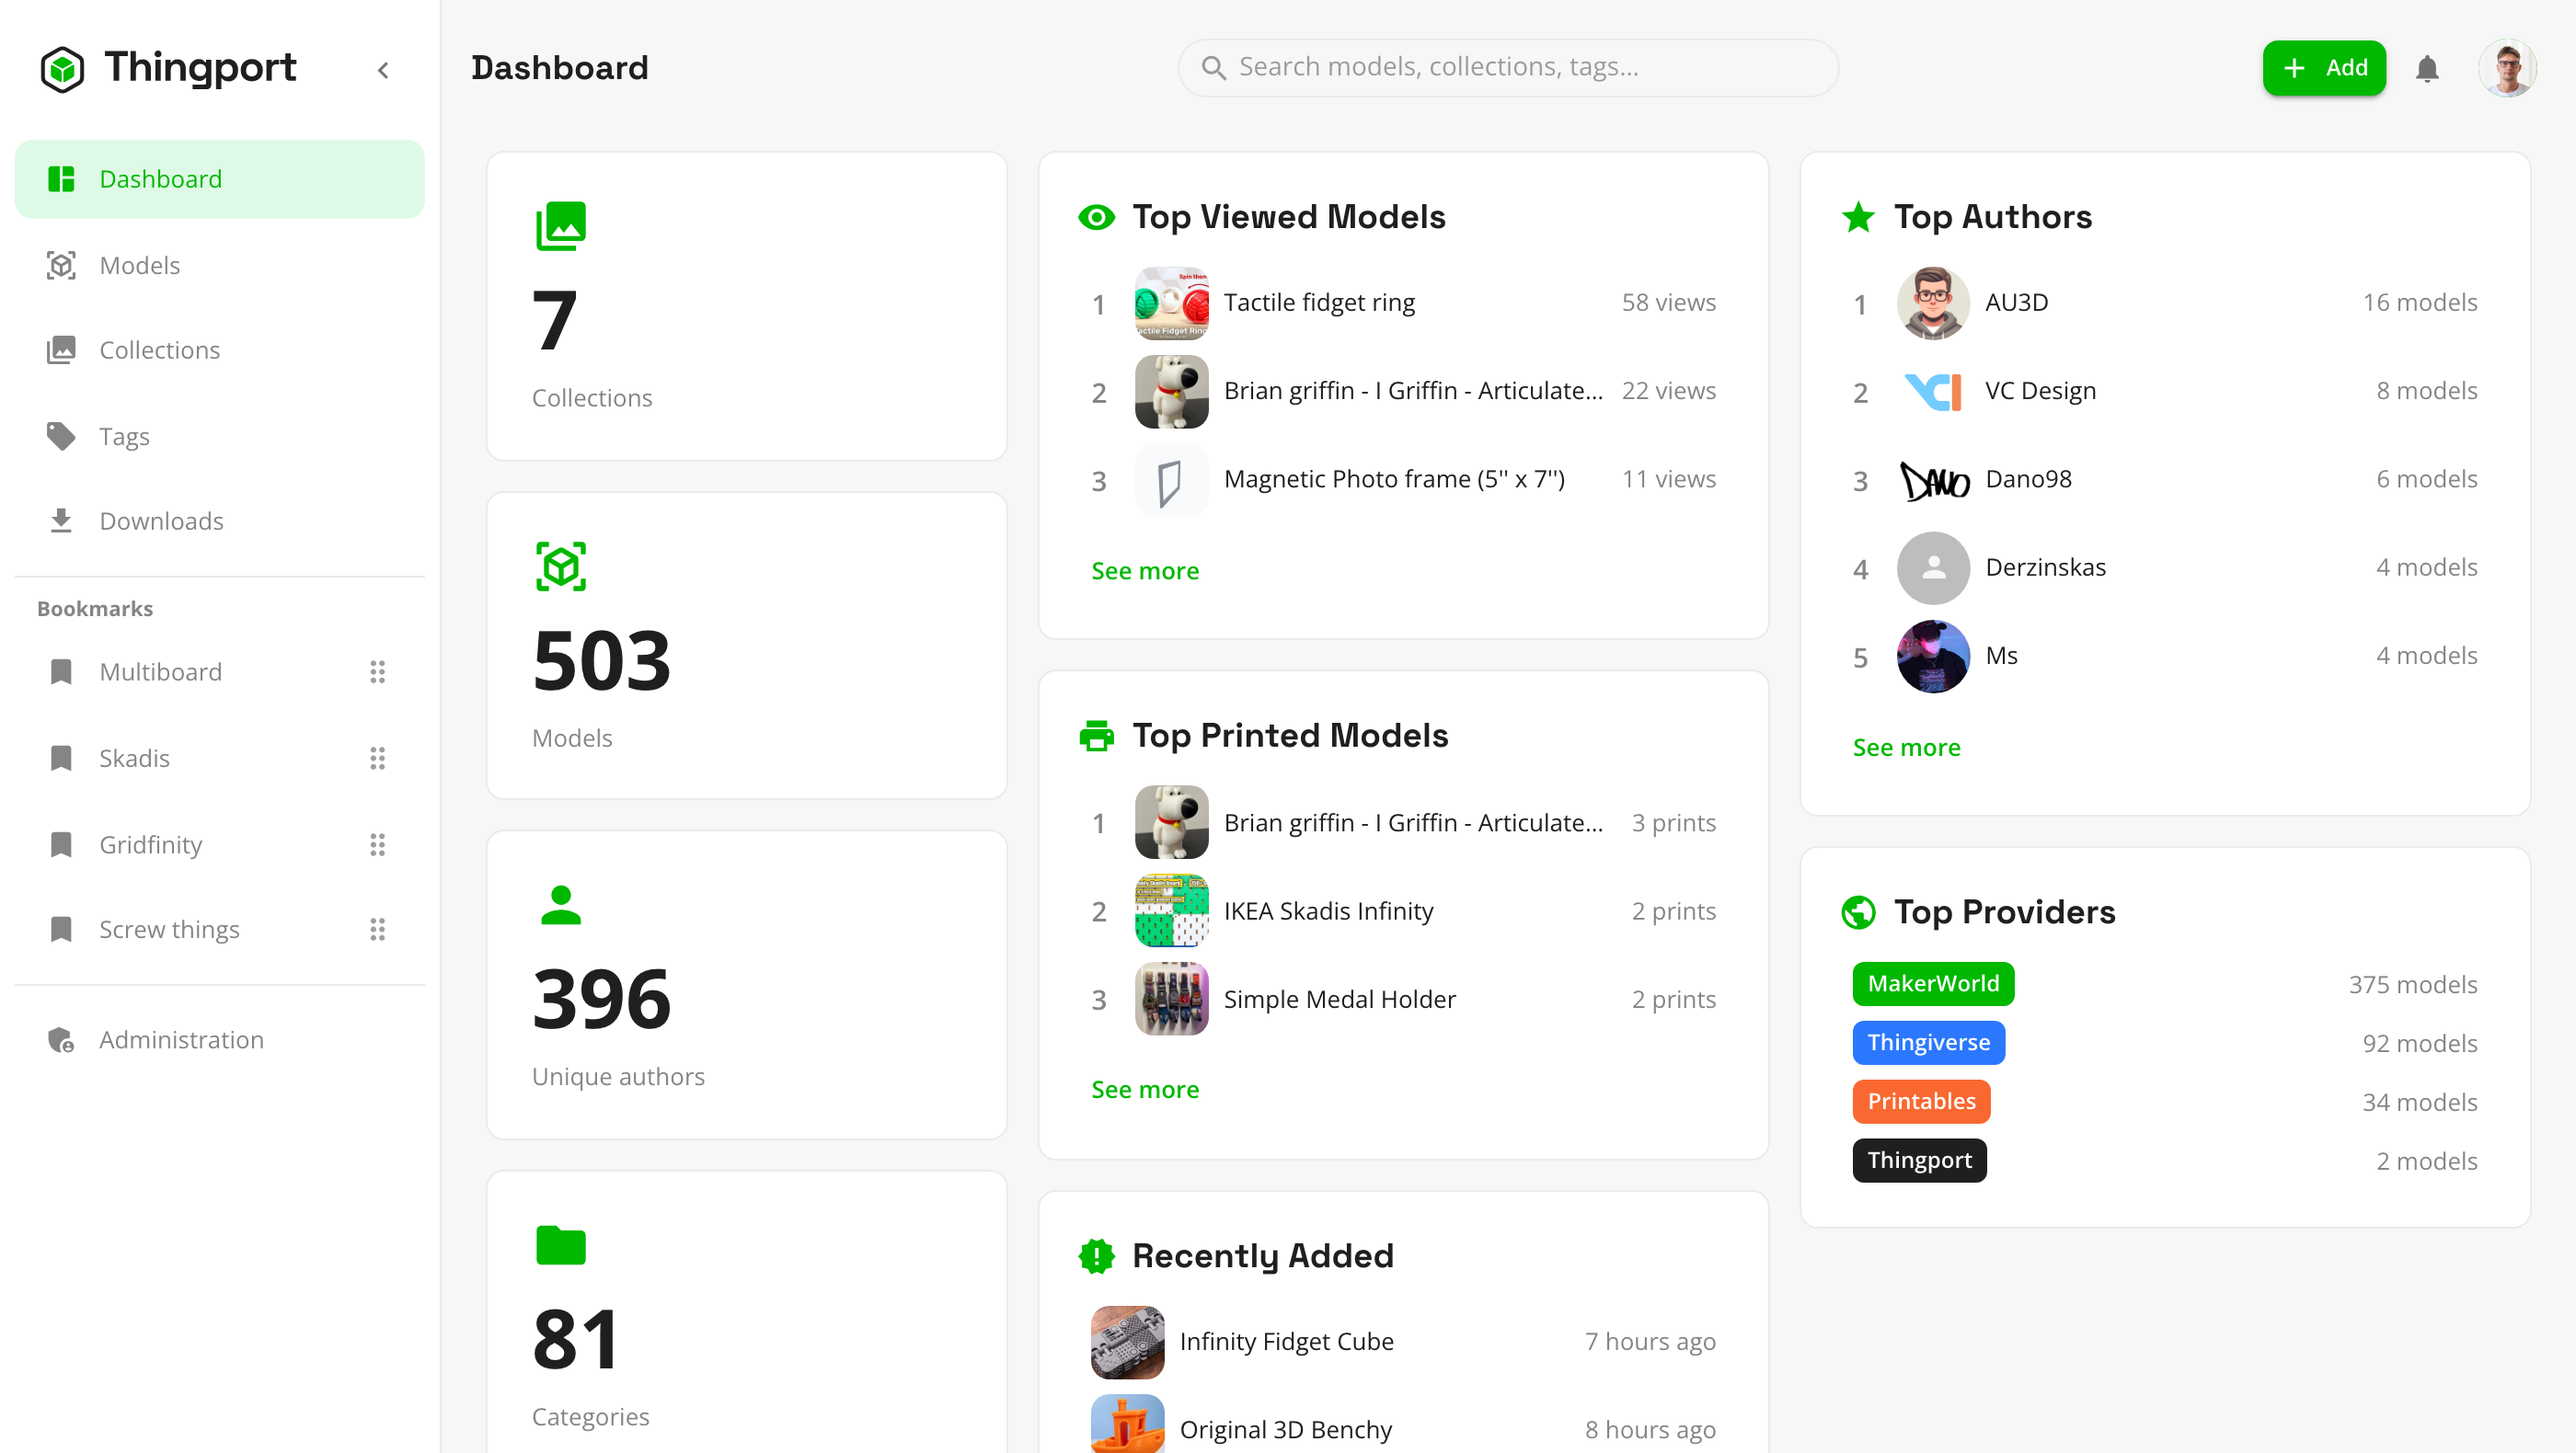
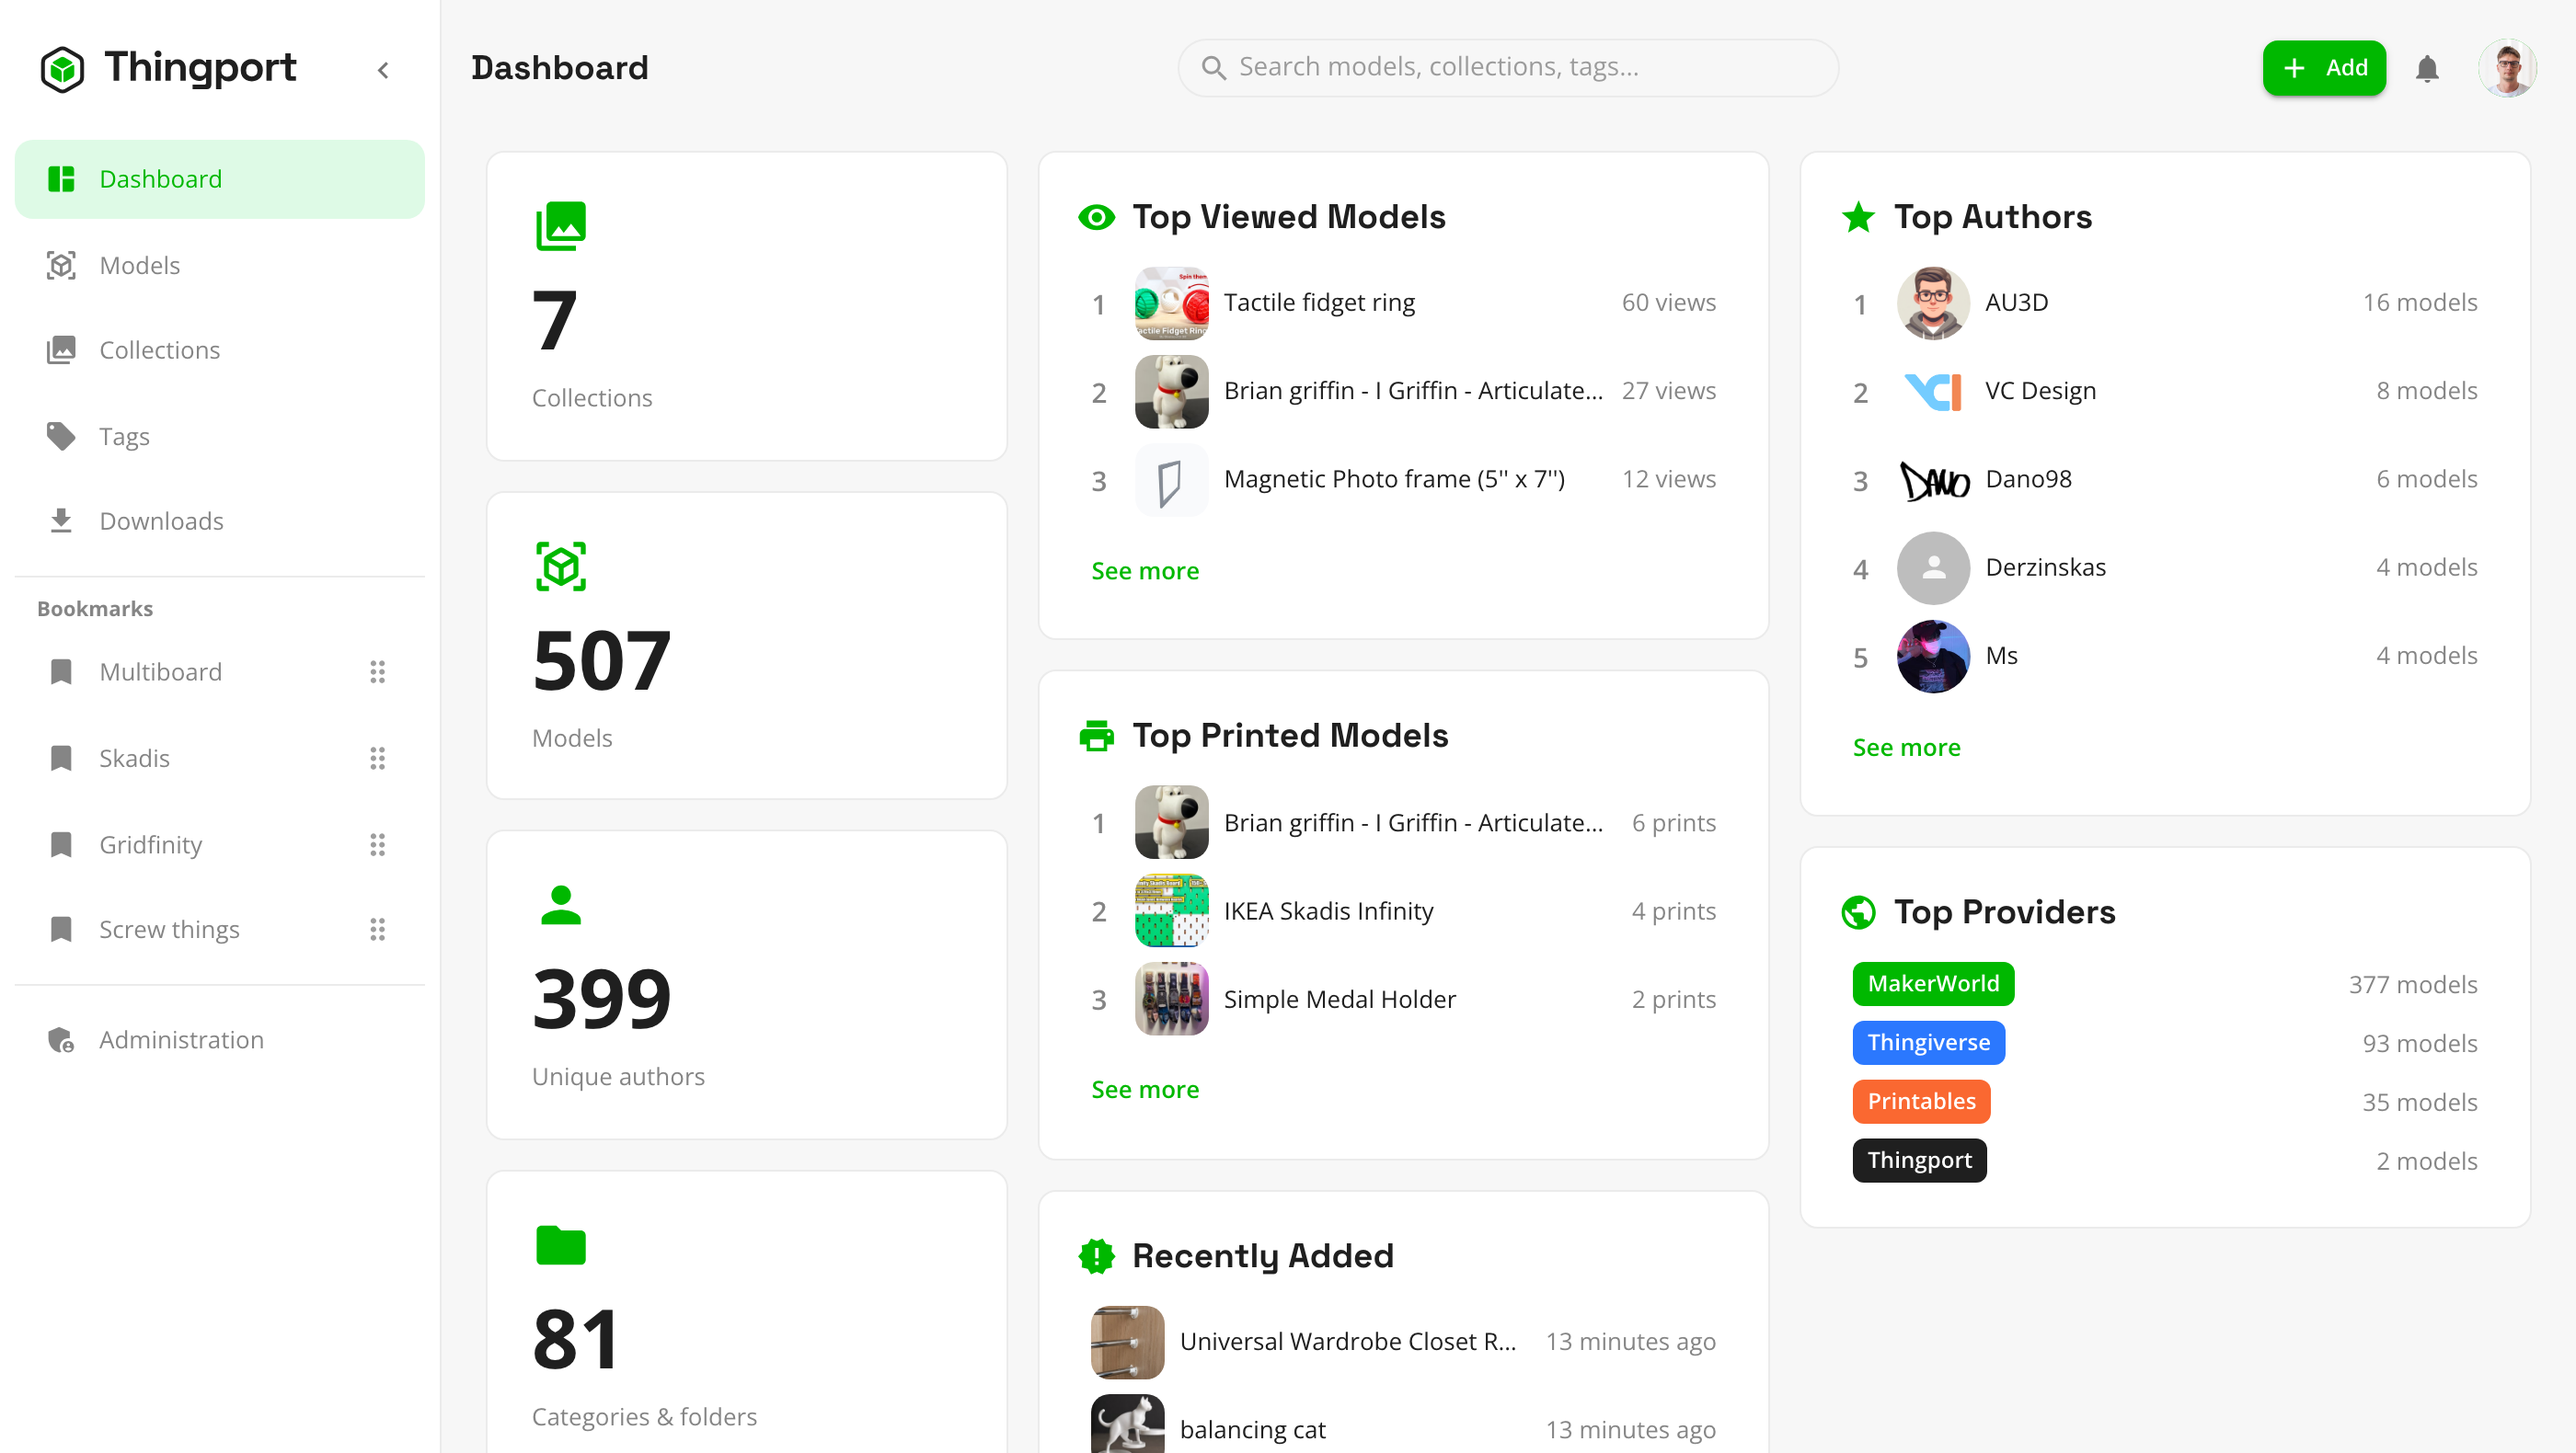
docs: refresh app screenshots and add a script to capture them
regression/screenshots.mjs signs in to any instance (--url, --email,
THINGPORT_PASSWORD) and captures the README and website screenshots at
1400x790 and 2x scale. The account's theme and Categories/Folders choice
are switched for the shots and restored afterwards.

diff --git a/docs/DEVELOPMENT.md b/docs/DEVELOPMENT.md
@@ -159,6 +159,23 @@ CI runs it every Saturday at 00:00 UTC (`.github/workflows/regression.yml`). You
 from the Actions tab. When it fails, the HTML report, traces and container logs are uploaded as the
 `regression-report` artifact.
 
+### App screenshots
+
+The README and website screenshots in `frontend/src/assets/screenshots/` are captured from a running
+instance with a populated library, by `regression/screenshots.mjs` (the extension's screenshots
+aren't covered). It signs in, captures every shot at 1400×790 and 2× scale, and overwrites the files.
+The account's theme and Categories/Folders choice are switched for the shots and restored afterwards.
+
+```bash
+cd regression
+THINGPORT_PASSWORD='…' npm run screenshots -- --url https://thingport.example --email you@example.com
+npm run screenshots -- --url … --email … --only 03,04     # just some shots
+npm run screenshots -- --url … --email … --model "Benchy" # model for the details and 3D shots
+```
+
+`--out` writes somewhere else instead, e.g. to compare before replacing. Self-signed certificates
+are accepted.
+
 ## Quality checks
 
 | Command                               | What it runs                     |
